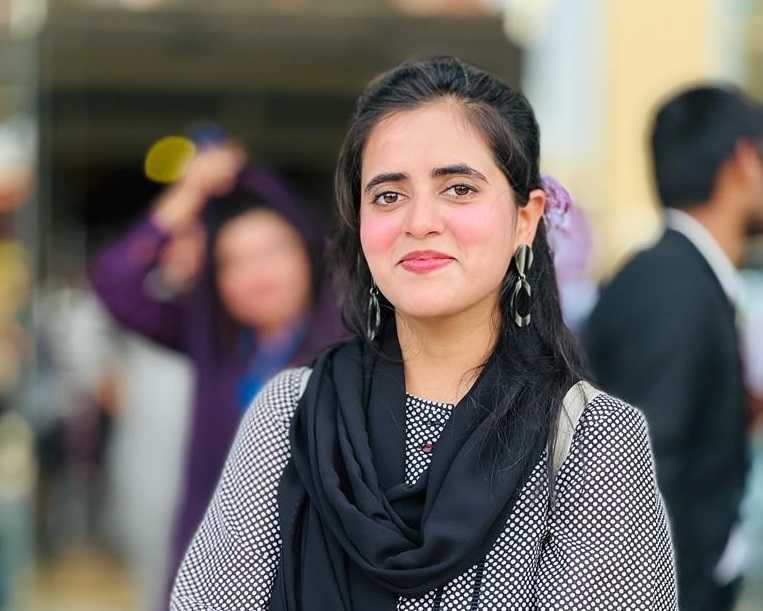
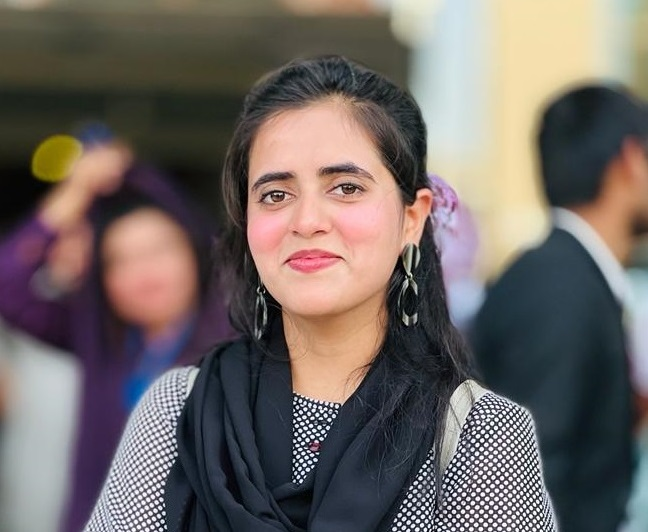
Third commit

diff --git a/cvTemplates/template2.html b/cvTemplates/template2.html
@@ -18,7 +18,7 @@
         <div class="d-flex">
             <div class="w-200 bg-blue h-full">
                 <div class="pt-2 text-center">
-                    <span><img class="rounded-circle" src="/images/myimage.jpg" alt="" height="150" width="130"></span>
+                    <span><img class="rounded-circle" src="/images/haiderimage.jpg" alt="" height="130" width="130"></span>
                 </div>
                 <div class="style fw-bold fs-3 p-2">Haider Saeed Jutt
                 </div>
